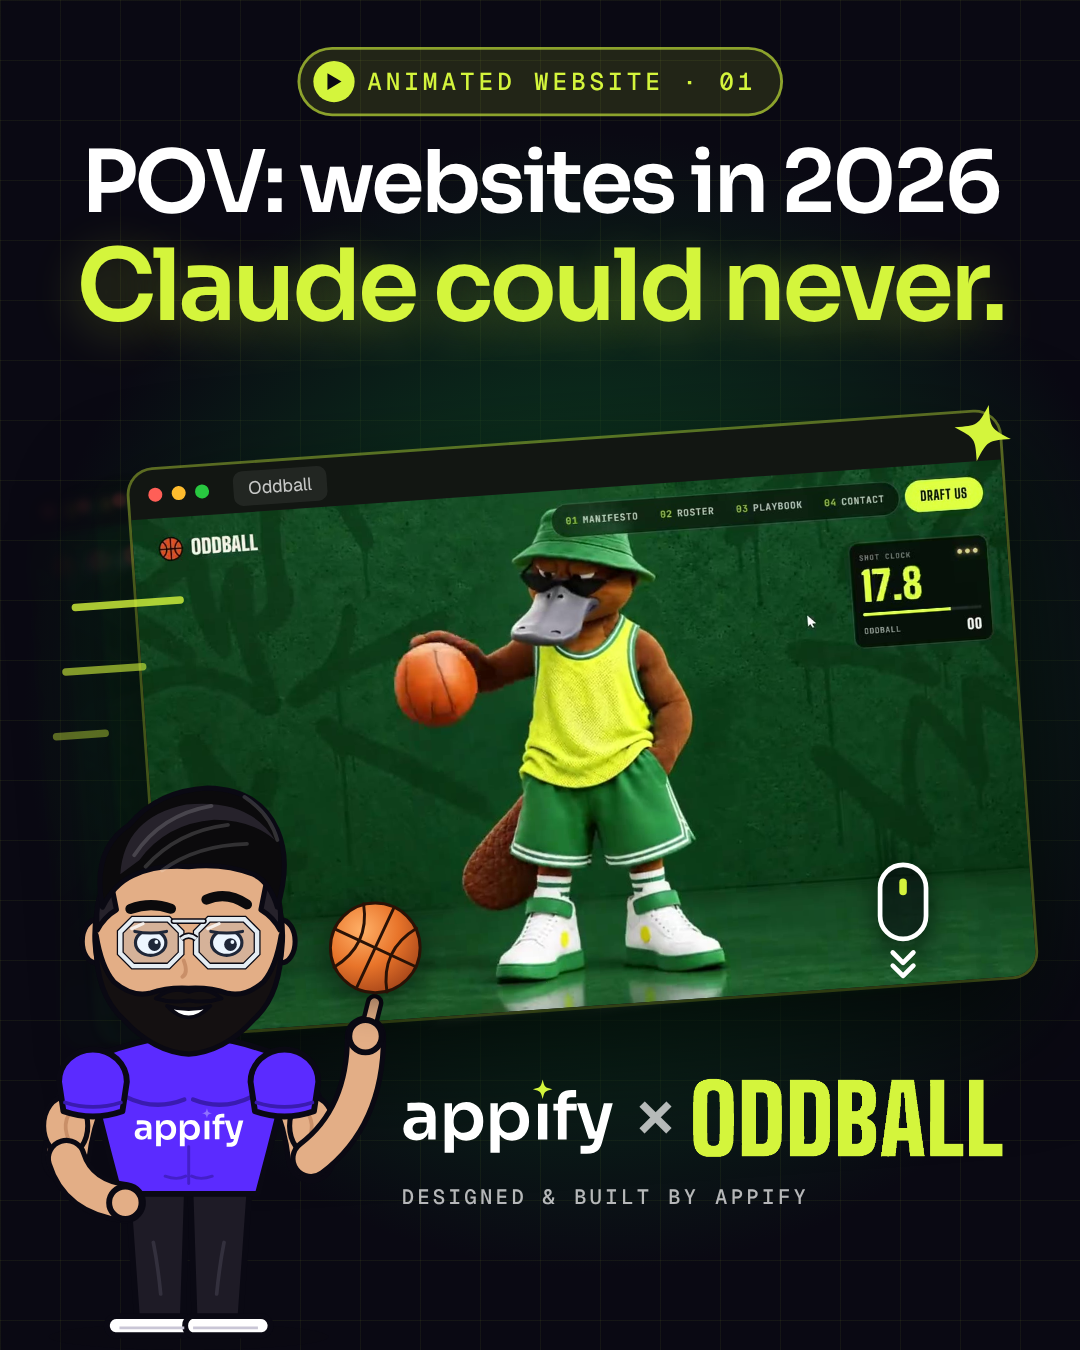
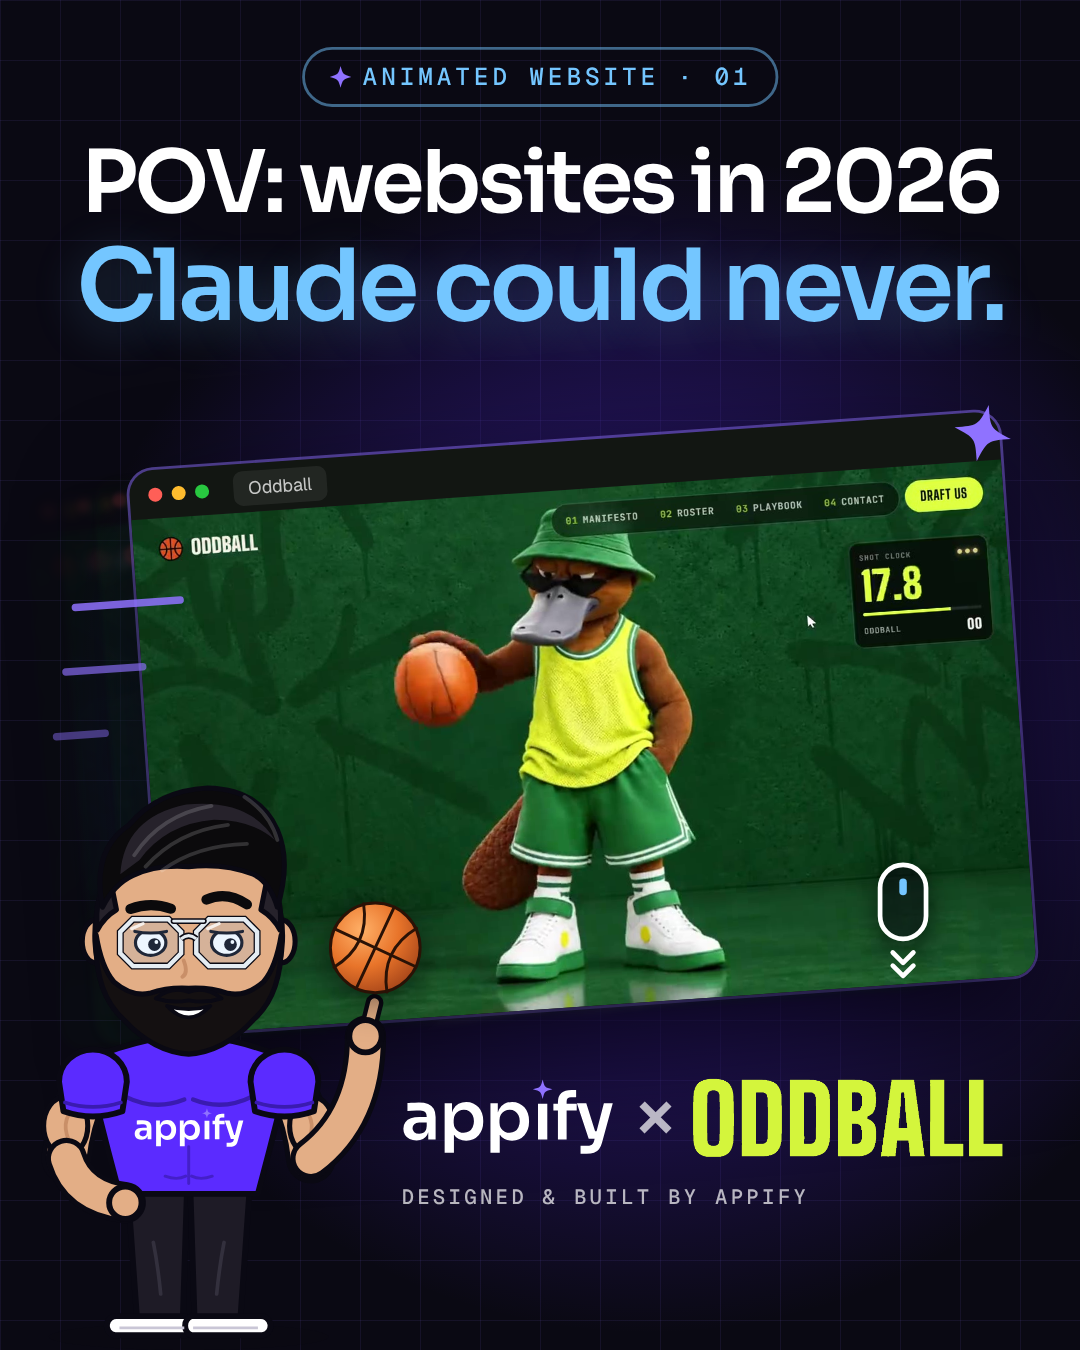
Oddball thumbnail: recoloured to the shared cover template (ink + uv glow, sky accent, iris details)
Claude-Session: https://claude.ai/code/session_01J8CdFv3swMV9cdtzd73STo

diff --git a/appify-oddball/src/Cover.jsx b/appify-oddball/src/Cover.jsx
@@ -6,7 +6,7 @@ import { useFonts } from "./fx.jsx";
 import { WORDMARK, sparkPath } from "./brand.js";
 import { Dev } from "./Dev.jsx";
 
-const C = { ink: "#0A0913", lime: "#D4F53C", court: "#0E3B1C", orange: "#E8742A" };
+const C = { ink: "#0A0913", lime: "#D4F53C", court: "#0E3B1C", orange: "#E8742A", uv: "#5B2BFF", iris: "#8F72FF", sky: "#74C6FF" };
 const D = { fontFamily: "Display", fontWeight: 600, letterSpacing: "-0.04em", lineHeight: 0.98 };
 const M = { fontFamily: "Mono", letterSpacing: "0.16em", textTransform: "uppercase" };
 const UI = { fontFamily: "UI", fontWeight: 600 };
@@ -22,7 +22,7 @@ function Ball({ size }) {
 }
 const WIN_W = 930, IMG_H = (WIN_W * 758) / 1280;
 const Window = ({ ghost = 0 }) => (
-  <div style={{ width: WIN_W, borderRadius: 26, overflow: "hidden", background: "#121612", boxShadow: ghost ? "none" : "0 50px 120px rgba(0,0,0,.7), 0 0 0 3px rgba(212,245,60,.45)" }}>
+  <div style={{ width: WIN_W, borderRadius: 26, overflow: "hidden", background: "#121612", boxShadow: ghost ? "none" : "0 50px 120px rgba(0,0,0,.7), 0 0 0 3px rgba(143,114,255,.55)" }}>
     <div style={{ height: 52, display: "flex", alignItems: "center", gap: 10, padding: "0 20px" }}>
       {["#FF5F57", "#FEBC2E", "#28C840"].map((c) => <i key={c} style={{ width: 15, height: 15, borderRadius: 99, background: c }} />)}
       <div style={{ marginLeft: 16, padding: "6px 16px", borderRadius: 10, background: "rgba(255,255,255,.07)", ...UI, fontWeight: 400, fontSize: 19, color: "rgba(255,255,255,.75)" }}>Oddball</div>
@@ -39,20 +39,20 @@ export const Cover = () => {
   const tipX = dx + (553 - 90) * s, tipY = dy + (396 - 50) * s;
   return (
     <AbsoluteFill style={{ background: C.ink, overflow: "hidden" }}>
-      <AbsoluteFill style={{ backgroundImage: "linear-gradient(rgba(212,245,60,.06) 1.5px, transparent 1.5px), linear-gradient(90deg, rgba(212,245,60,.06) 1.5px, transparent 1.5px)", backgroundSize: "60px 60px" }} />
-      <AbsoluteFill style={{ background: "radial-gradient(circle at 55% 52%, rgba(14,90,40,.85), transparent 62%)" }} />
+      <AbsoluteFill style={{ backgroundImage: "linear-gradient(rgba(143,114,255,.09) 1.5px, transparent 1.5px), linear-gradient(90deg, rgba(143,114,255,.09) 1.5px, transparent 1.5px)", backgroundSize: "60px 60px", backgroundPosition: "540px 0" }} />
+      <AbsoluteFill style={{ background: "radial-gradient(circle at 60% 55%, rgba(91,43,255,.55), transparent 60%)" }} />
       <div style={{ position: "absolute", left: (W - 1080 * k) / 2, top: bt, width: 1080, height: 1440, transform: `scale(${k})`, transformOrigin: "0 0" }}>
         {/* series badge */}
         <div style={{ position: "absolute", left: 0, right: 0, top: 50, display: "flex", justifyContent: "center" }}>
-          <div style={{ display: "flex", alignItems: "center", gap: 14, padding: "12px 26px 12px 14px", borderRadius: 99, background: "rgba(212,245,60,.12)", border: "3px solid rgba(212,245,60,.6)" }}>
-            <span style={{ width: 44, height: 44, borderRadius: 99, background: C.lime, display: "grid", placeItems: "center" }}><svg width="18" height="20" viewBox="0 0 18 20"><path d="M2 1 L17 10 L2 19 Z" fill={C.ink} /></svg></span>
-            <span style={{ ...M, fontSize: 26, color: C.lime }}>animated website · 01</span>
+          <div style={{ display: "flex", alignItems: "center", gap: 12, padding: "12px 26px", borderRadius: 99, border: "3px solid rgba(116,198,255,.5)" }}>
+            <Spark size={24} color={C.iris} />
+            <span style={{ ...M, fontSize: 26, color: C.sky }}>animated website · 01</span>
           </div>
         </div>
         {/* hook */}
         <div style={{ position: "absolute", left: 0, right: 0, top: 150, textAlign: "center" }}>
           <div style={{ ...D, fontSize: 92, color: "#fff", whiteSpace: "nowrap" }}>POV: websites in 2026</div>
-          <div style={{ ...D, fontSize: 106, color: C.lime, marginTop: 14, whiteSpace: "nowrap", textShadow: "0 10px 50px rgba(212,245,60,.3)" }}>Claude could never.</div>
+          <div style={{ ...D, fontSize: 106, color: C.sky, marginTop: 14, whiteSpace: "nowrap", textShadow: "0 10px 50px rgba(116,198,255,.25)" }}>Claude could never.</div>
         </div>
         {/* the site, with motion trails behind it */}
         {[3, 2, 1].map((g) => (
@@ -60,14 +60,14 @@ export const Cover = () => {
         ))}
         <div style={{ position: "absolute", left: 120, top: 470, transform: "rotate(-4deg)" }}><Window /></div>
         {/* speed lines + scroll cursor */}
-        {[0, 1, 2].map((i) => <i key={i} style={{ position: "absolute", left: 40 - i * 10, top: 640 + i * 70, width: 120 - i * 30, height: 8, borderRadius: 9, background: C.lime, opacity: 0.8 - i * 0.2, transform: "rotate(-4deg)" }} />)}
+        {[0, 1, 2].map((i) => <i key={i} style={{ position: "absolute", left: 40 - i * 10, top: 640 + i * 70, width: 120 - i * 30, height: 8, borderRadius: 9, background: C.iris, opacity: 0.85 - i * 0.2, transform: "rotate(-4deg)" }} />)}
         <div style={{ position: "absolute", left: 900, top: 920, display: "grid", justifyItems: "center", gap: 8 }}>
-          <div style={{ width: 54, height: 84, borderRadius: 30, border: "5px solid #fff", display: "grid", justifyItems: "center", paddingTop: 12, background: "rgba(10,9,19,.55)", boxShadow: "0 10px 30px rgba(0,0,0,.5)" }}><i style={{ width: 8, height: 18, borderRadius: 9, background: C.lime }} /></div>
+          <div style={{ width: 54, height: 84, borderRadius: 30, border: "5px solid #fff", display: "grid", justifyItems: "center", paddingTop: 12, background: "rgba(10,9,19,.55)", boxShadow: "0 10px 30px rgba(0,0,0,.5)" }}><i style={{ width: 8, height: 18, borderRadius: 9, background: C.sky }} /></div>
           <svg width="30" height="34" viewBox="0 0 30 34"><path d="M4 4 L15 15 L26 4 M4 18 L15 29 L26 18" stroke="#fff" strokeWidth="5" fill="none" strokeLinecap="round" strokeLinejoin="round" /></svg>
         </div>
         {/* appify × ODDBALL */}
         <div style={{ position: "absolute", left: 390, right: 40, top: 1150, display: "flex", alignItems: "center", gap: 22 }}>
-          <svg viewBox={WORDMARK.viewBox} width={230} height={230 * 1167 / 3224}><path d={WORDMARK.letters} fill="#fff" /><path d={WORDMARK.spark} fill={C.lime} /></svg>
+          <svg viewBox={WORDMARK.viewBox} width={230} height={230 * 1167 / 3224}><path d={WORDMARK.letters} fill="#fff" /><path d={WORDMARK.spark} fill={C.iris} /></svg>
           <span style={{ ...D, fontSize: 70, color: "rgba(255,255,255,.7)" }}>×</span>
           <Img src={staticFile("cover/oddball-logo.png")} style={{ width: 330, height: 330 * 308 / 1209 }} />
         </div>
@@ -75,7 +75,7 @@ export const Cover = () => {
         {/* Dev in front, ball spinning on his finger */}
         <div style={{ position: "absolute", left: dx, top: dy }}><Dev width={devW} point={1} brow={16} lid={0.06} smile={1} look={6} /></div>
         <div style={{ position: "absolute", left: tipX - 52, top: tipY - 104 }}><Ball size={104} /></div>
-        <Spark size={64} color={C.lime} style={{ position: "absolute", left: 980, top: 430, transform: "rotate(12deg)" }} />
+        <Spark size={64} color={C.iris} style={{ position: "absolute", left: 980, top: 430, transform: "rotate(12deg)" }} />
       </div>
     </AbsoluteFill>
   );
